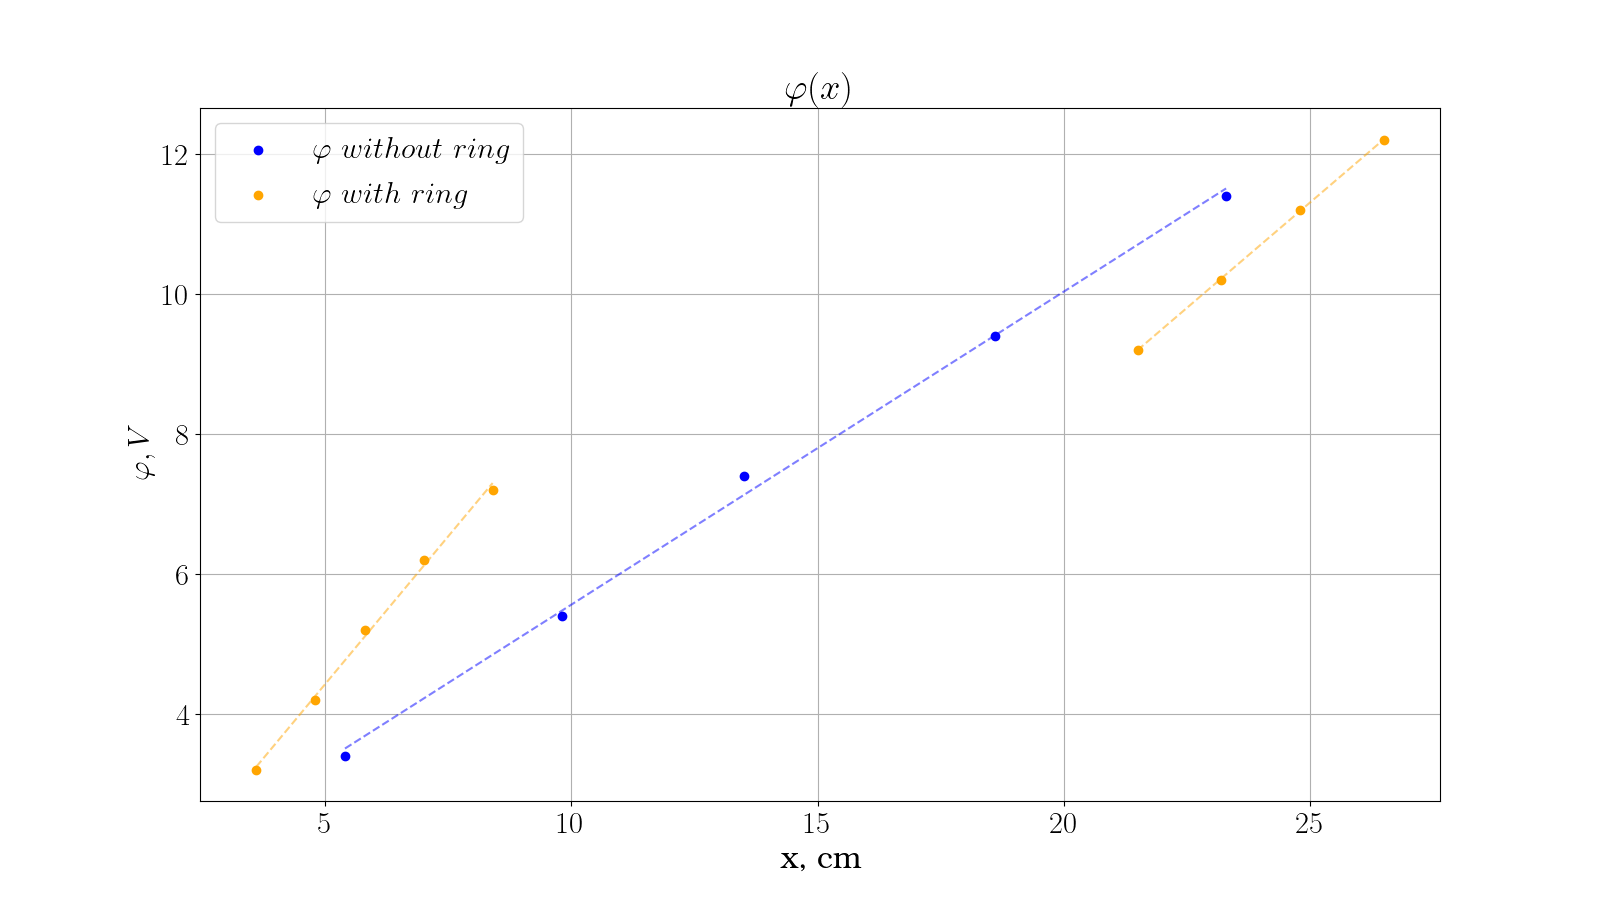
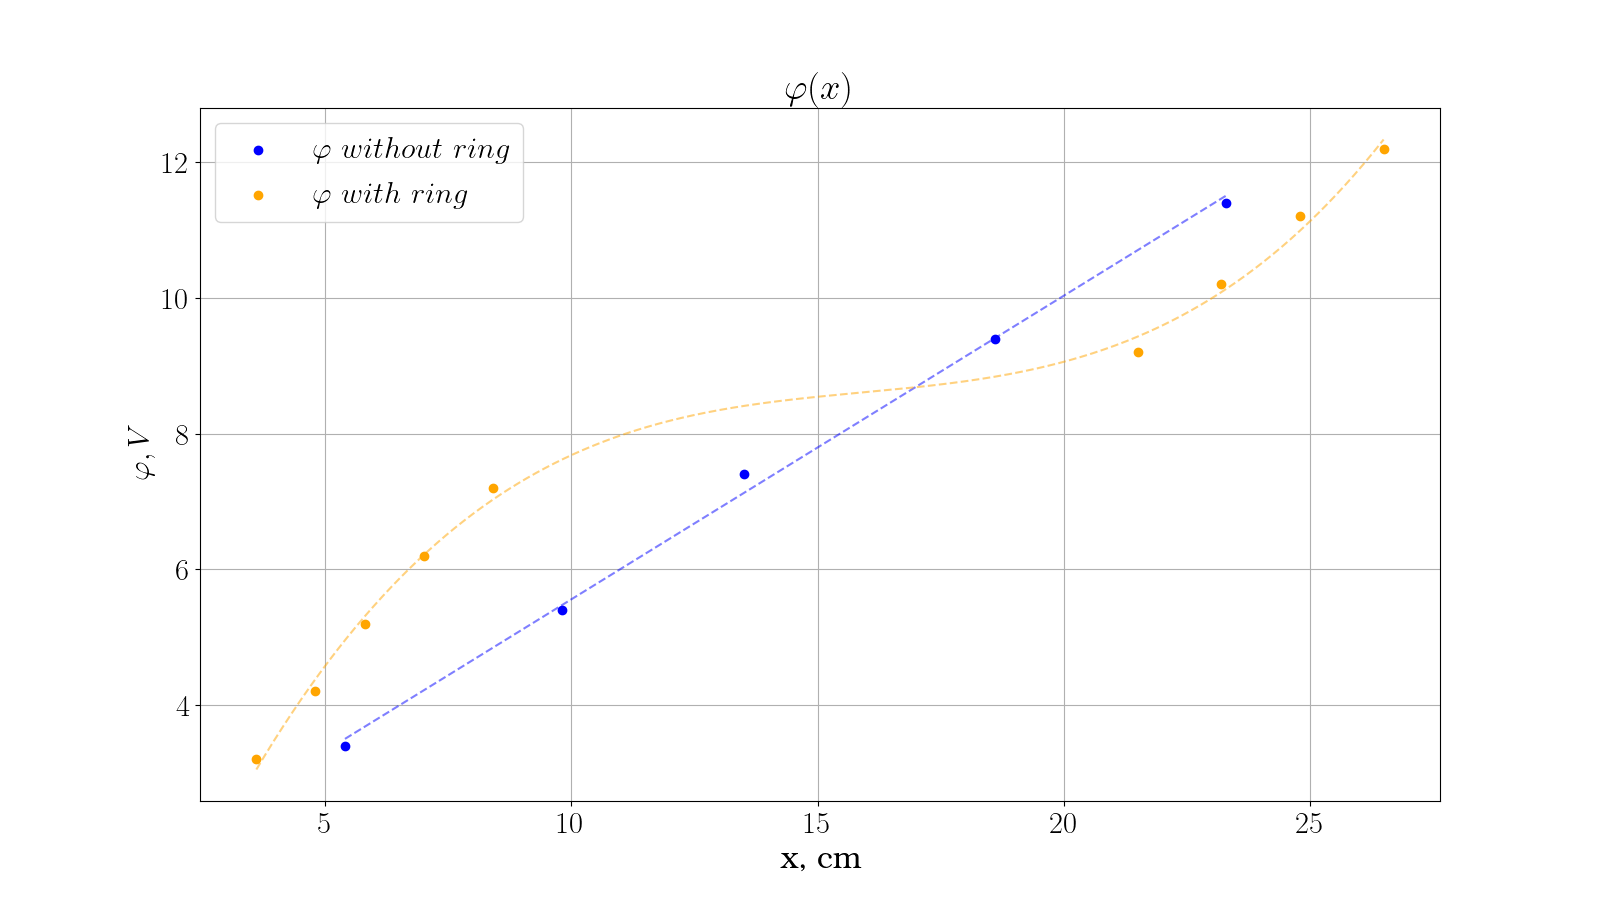
fix: Cubic fit instead of linear fit

diff --git a/report.md b/report.md
@@ -8,52 +8,48 @@
 
 * * *
 
-### Лабораторная установка и проведение измерений
-1. Измерительными приборами в данной лабораторной работе являются амперметр и вольтметр, содержащиеся в блоке АВ1. Резистор переменного сопротивления $𝑅 = 0 ÷1,5 \ кОм$.
-1. В качестве источника ЭДС в лабораторной работе используется генератор регулируемого постоянного напряжения блока ГН1 с включенным внутренним сопротивлением (переключатель $R{вн}$ должен быть нажат). В этом случае номинальное значение внутреннего сопротивления генератора равняется$680 \ \Omega ±10 \% $.
-1. Соберите установку.
-2. Соедините гнезда (*) на лицевых панелях амперметра и генератора между собой проводником. Среднюю пару контактов(обозначены стрелочкой) переменного резистора 𝑅 подключите к контакту «$0. . . +15 В$» генератора и к контакту «$U$» вольтметра.
-1. Нижнюю пару контактов переменного резистора R подключите к контакту «$I$» амперметра, и к контакту (*) вольтметра.
-1. Перед включением установки внимательно проверьте правильность и надежность всех соединений.
-1. На блоке ГН1 регулятор генератора постоянного напряжения «$0. . . +15 В$» установите в среднее положение (пятое-шестое деление шкалы). Кнопочными переключателями блока амперметра вольтметра АВ1 «$J$» и «$I$» установите диапазоны измерений амперметра: «$20 мА$» и вольтметра: «$20 В$».
-1. Изменяя переменное сопротивление $𝑅$ (от $100 \ \Omega$ до $1500 \ \Omega$) с шагом около 100 Ом), проведите измерение зависимости напряжения от силы тока $𝑈 = 𝑈(𝐼)$.
-1. После проведения измерений выключите генератор и блок АВ1.
+### Задачи, решаемые при выполнении лабораторной работы
+1) При выполнении замеров на миллиметровой бумаге отметить точки с одинаковыми потенциалами по оси Y (∆Y=4 см, а также отличающиеся от первой найденной точки в координате XY {2см, 2см} на постоянную величину ∆φ = 2 B.
+2) Произвести такие же измерения для поля, в плоскости которого находится металлическое кольцо, однако следует взять шаг измерения по оси Y: ∆Y=1-2см, по оси X: ∆φ=1 В.
+3) На обоих листах миллиметровой бумаги с отмеченными точками провести эквипотенциальные линии, соединив точки с равным потенциалом плавными линиями.
+4) Нарисовать систему силовых линий поля с указанием их направления. В качестве координат начальных точке для построения силовых линий выбрать Xn = 0 см, Yn = 2-18 см с шагом 2 см.
+5) По формулам рассчитать величину напряженности в центре электролитической ванны и в окрестности одного из электродов. Оценить величину погрешности полученного результата. Оценить поверхностную плотность электрического заряда на электродах.
+6) Для конфигурации поля при наличии проводящего кольца найти области с минимальной и максимальной напряженностью. Описать их расположение и оценить соответствующие значения.
+7) По экспериментальным данным построить графики зависимостей потенциала от координаты для двух исследованных конфигураций поля для горизонтали Y = 10 см. Сделать выводы.
+
 
 * * *
 
 
 ## Обработка измерений
 
-![График зависимости $phi(x)$](https://raw.githubusercontent.com/currantino/physics-3.01/master/plots/phi(x).png)
+1. Найдем напряженность в центре ванны и у одного из электродов по формуле: $\left<E_{1,2}\right>\approxeq\dfrac{\varphi_1-\varphi_2}{l_{1,2}}$
 
-Найдем напряженность в центре ванны и у одного из электродов по формуле: $\left<E_{1,2}\right>\approxeq\dfrac{\varphi_1-\varphi_2}{l_{1,2}}$
-В  центре  ванны: $E\approxeq\dfrac{11.400-3.400\ В}{0.230-0.054\ м}\approx45.45\dfrac{В}{м};$
+    В  центре  ванны: $E\approxeq\dfrac{11,400-3,400\ В}{0,230-0,054\ м}\approx45,45\dfrac{В}{м};$
 
-У одного из электродов(правого): $E\approxeq\dfrac{12.60 – 11.40}{0.28 – 0.26} \approx 60 \dfrac{В}{м}.$
+    У одного из электродов(правого): $E\approxeq\dfrac{12,60 – 11,40}{0,28 – 0,26} \approx 60 \dfrac{В}{м}.$
 
-Теперь оценим поверхностную плотность заряда на электродах, используя следующую формулу: $ \sigma ' \approxeq - \varepsilon_0 \dfrac{\Delta{\varphi}}
+2. Теперь оценим поверхностную плотность заряда на электродах, используя следующую формулу: $ \sigma ' \approxeq - \varepsilon_0 \dfrac{\Delta{\varphi}}
 {\Delta{l_n}} $
 
-$ \sigma ' \approxeq -8.85\cdot10^{-12} \dfrac{Ф}{м} \cdot 60 \dfrac{В}{м}\approx -5.3 \cdot 10^{-10} \dfrac{Кл}{м^2}$
+    $ \sigma ' \approxeq -8,85\cdot10^{-12} \dfrac{Ф}{м} \cdot (-60) \dfrac{В}{м}\approx 5,3 \cdot 10^{-10} \dfrac{Кл}{м^2}$
+
+3. Оценим значения напряженности в областях с максимальной напряженностью по формуле $E\approxeq\dfrac{\varphi_1 - \varphi_2}{l_{1,2}}$:
+   - Справа от кольца $E\approxeq\dfrac{10,2 - 9,2\ В}{0,232 - 0,215\ м}=58,82\dfrac{В}{м}$
+    
+   - Слева от кольца $E\approxeq\dfrac{7,2 - 6,2\ В}{0,084 - 0,07\ м}=71,43\dfrac{В}{м}$
+4. Теперь оценим значения напряженности в областях с минимальной напряженностью по формуле $(1)$:
+   - Сверху от кольца $E\approxeq\dfrac{9,2-7,2\ В}{0,195 - 0,115\ м}=25\dfrac{В}{м}$
+   - Снизу от кольца $E\approxeq\dfrac{9,2-7,2 \ В}{0,194 - 0,115\ м} = 25,32\dfrac{В}{м}$
+6. На основе измерений построим график $\varphi(x)$ на прямой $y=10\ см$ для двух конфигураций поля: с проводником и без:
+![График зависимости $phi(x)$](https://raw.githubusercontent.com/currantino/physics-3.01/master/plots/phi(x).png)  
+
+
+
+### Выводы и анализ результатов работы
+Так как металлическое кольцо – нейтральный проводник, то под действием поля свободные электроны проводника начнут перемещаться против поля, в результате одна часть проводника станет заряжена положительно, а вторая – отрицательно. В таком случае силовые линии внешнего поля вблизи проводника должны расположиться перпендикулярно поверхности проводника. Таким образом, произойдет искажение внешнего поля.
+Для конфигурации поля при наличии проводящего кольца из-за такого искажения область c минимальной напряженностью будет находиться сверху и снизу кольца, близко к его внешней границе ($E_{верх}= 25 \dfrac{В}{м}  ,E_{низ}= 26,32 \dfrac{В}{м}$), а максимальная – справа и слева, близко к внешней границе ($E_{прав}= 116,7 \ В/м \,   E_{лев}= 118,2 \ \dfrac{В}{м} $). Кроме того, напряженность внутри кольца и на поверхности будет отсутствовать, соответственно, это область с минимальной напряженностью.
+На графике видно, что в плоском конденсаторе зависимость напряженности линейная, так как работа, затрачиваемая на перемещение заряда и точки А в точку В, линейно зависит от расстояние между точками для случая, когда линии напряженности идеально параллельны друг другу.
+Когда мы поместили проводник в плоский конденсатор, то поле исказилось. Внутри области, ограничивающейся внешним контуром кольца, потенциал одинаков. Кроме того, на прямой Y = 10 см. напряженность возле проводника выросла, поэтому изменение потенциала увеличилось и зависимость стала нелинейной.
 
 #### *Выполнил: Смородин Матвей Андреевич (336982)*
-
-## Итоговая таблица
-
-| $U, В$      | $I, A$      | $P_r, Вт$   | $P, Вт$     | $P_s, Вт$   |     $\eta$  |
-| ----------- | ----------- | ----------- | ----------- | ----------- | ----------- |
-|0.72	          |12.56	    |9.043	      |115.873	    |106.849      |	0.078       |
-|1.84|	10.91   |20.074|	100.651|80.620|	0.199|
-|2.65|	9.71	|25.732|	89.581|	63.860|	0.287|
-|3.19|	8.92	|28.455|	82.292|	53.892|	0.346|
-|3.71|	8.14	|30.199|	75.096|	44.879|	0.402|
-|4.26|	7.30	|31.098|	67.347|	36.094|	0.462|
-|4.66|	6.74	|31.408|	62.181|	30.769|	0.505|
-|4.95|	6.32	|31.284|	58.306|	27.054|	0.537|
-|5.25|	5.85	|30.712|	53.970|	23.179|	0.569|
-|5.60|	5.36	|30.016|	49.449|	19.459|	0.607|
-|5.8 |  5.05    |29.340|	46.589|	17.273|	0.630|
-|5.97|	4.81	|28.716|	44.375|	15.670|	0.647|
-|6.15|	4.55    |27.982|	41.976|	14.022|	0.667|
-|6.26|	4.38    |27.419|	40.408|	12.994|	0.679|
-|6.30|	4.32    |27.216|	39.855|	12.640|	0.683|  
